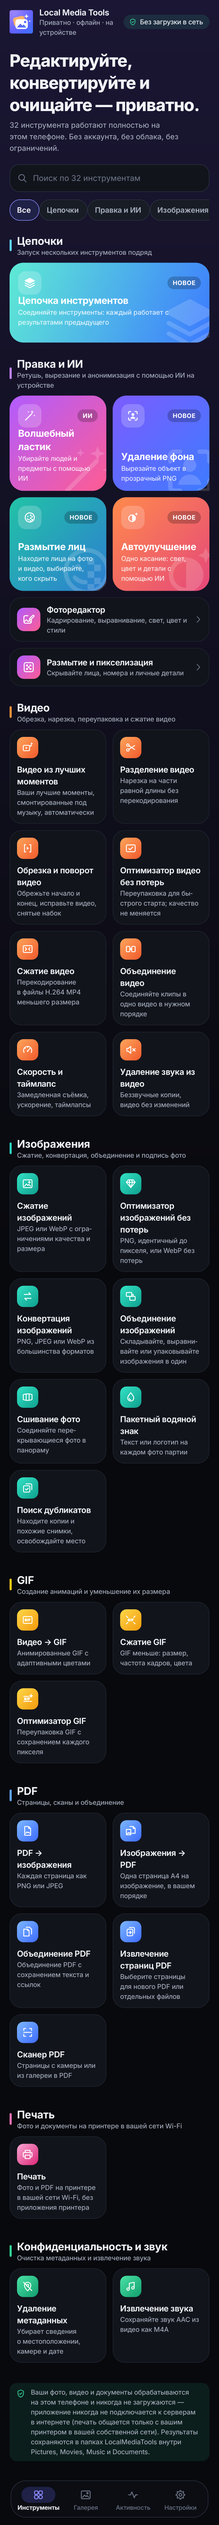
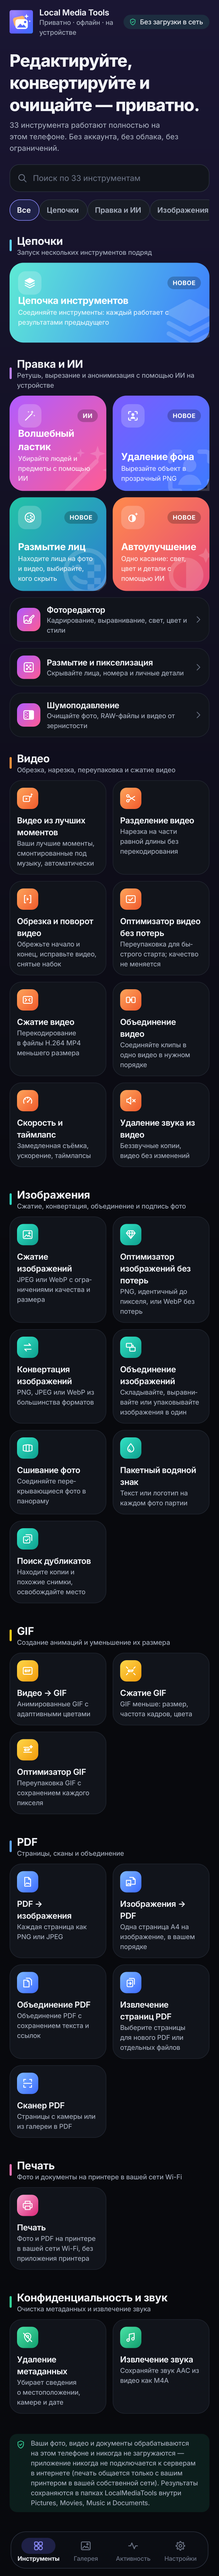
Release 1.10.0: Denoiser that keeps RAW files RAW, your own song, people and things in videos
- Denoiser (Edit & AI): photos, camera RAW files and videos, each file's own
  noise measured; photos keep their format, RAW files (CR2, DNG, NEF, ARW)
  are written back as themselves with everything else byte for byte, videos
  are cleaned on the GPU. Settings measured on real noise (SIDD, raw.pixls.us);
  a fine-detail safeguard keeps clean, detailed photos untouched
  (buildtools/denoise/README.md)
- RAW files keep their format: tools that would change it leave them out and
  say why; stacks pass them through; DNG recognised by content, CR3 no longer
  taken for a video
- Highlight video: your own song, its beat found and followed (80 % agreement
  with librosa/Essentia on 200 held-out FMA songs; buildtools/highlight)
- Gallery: videos looked at in a frame every 3 s (people found 43 % -> 86 % on
  18 real videos); undecodable videos retried; existing videos rescanned
  once with what was said about their faces kept
- All new texts in the ten languages; 142 JVM and 73 Robolectric tests pass

Claude-Session: https://claude.ai/code/session_01QWYGSgXqX2miYZz9W37Det

diff --git a/buildtools/build_apk.py b/buildtools/build_apk.py
@@ -33,8 +33,8 @@ SHARED_TEST_SRC = os.path.join(APP, "src", "sharedTest", "kotlin")
 ANDROID_JAR = os.path.join(TC, "android", "android.jar")
 AAPT2 = os.path.join(TC, "android", "aapt2")
 
-VERSION_CODE = 13
-VERSION_NAME = "1.9.1"
+VERSION_CODE = 14
+VERSION_NAME = "1.10.0"
 MIN_SDK = 29
 TARGET_SDK = 35
 ABIS = ["arm64-v8a", "armeabi-v7a"]

diff --git a/README.md b/README.md
@@ -15,7 +15,7 @@ after it has been completely written and checked.
 **Tool stacks** chain any of them: pick files once, add steps (for example Blur faces → Video
 compressor → Video → GIF → GIF optimizer) and run them all with one tap.
 
-**Install:** [`release/LocalMediaTools-1.9.1.apk`](release/LocalMediaTools-1.9.1.apk)
+**Install:** [`release/LocalMediaTools-1.10.0.apk`](release/LocalMediaTools-1.10.0.apk)
 (Android 10 or newer, arm64 / armv7; allow "install unknown apps" for your file manager or browser).
 It installs over earlier versions (same signing key).
 
@@ -39,9 +39,11 @@ in [`CREDITS.tsv`](app/src/test/resources/people/CREDITS.tsv)), as the app found
 |---|---|---|
 | ![](docs/screenshots/tool-stack.png) | ![](docs/screenshots/stack-step.png) | ![](docs/screenshots/stack-picker.png) |
 
-| Home | Blur faces | Background remover | Auto enhance | Speed & timelapse |
-|---|---|---|---|---|
-| ![](docs/screenshots/home.png) | ![](docs/screenshots/face-blur.png) | ![](docs/screenshots/background-remover.png) | ![](docs/screenshots/auto-enhance.png) | ![](docs/screenshots/speed.png) |
+| Home | Denoiser | Blur faces | Background remover | Auto enhance | Speed & timelapse |
+|---|---|---|---|---|---|
+| ![](docs/screenshots/home.png) | ![](docs/screenshots/denoiser.png) | ![](docs/screenshots/face-blur.png) | ![](docs/screenshots/background-remover.png) | ![](docs/screenshots/auto-enhance.png) | ![](docs/screenshots/speed.png) |
+
+The Denoiser's preview shows a real noisy phone photo from SIDD (MIT licence; [`CREDITS.tsv`](app/src/test/resources/denoise/CREDITS.tsv)) and what the app's photo denoiser made of it.
 
 | Português (Brasil) | 简体中文 | 日本語 | Русский |
 |---|---|---|---|
@@ -51,7 +53,66 @@ in [`CREDITS.tsv`](app/src/test/resources/people/CREDITS.tsv)), as the app found
 |---|---|---|---|
 | ![](docs/screenshots/editor-erase.png) | ![](docs/screenshots/editor-looks.png) | ![](docs/screenshots/editor-crop.png) | ![](docs/screenshots/settings.png) |
 
-## What's new in 1.9.1: duplicate finder fixes
+## What's new in 1.10.0: a denoiser that keeps RAW files RAW, your own song, people and things in videos
+
+- **New tool: Denoiser** (Edit & AI). It cleans the grain from photos, camera RAW files and videos,
+  a whole batch at a time.
+  - **Strength from the file itself:** each file's own noise is measured and only that much is
+    removed. Light, Normal and Strong adjust it.
+  - **Preview:** a piece of the first photo is shown before and after, at 100 %.
+  - **Photos** keep their format (JPEG stays JPEG, PNG PNG, WebP WebP). HEIC and others Android
+    can't write become JPEG.
+  - **Videos** are cleaned on the phone's graphics chip, frame by frame together with the frames
+    before them, and saved as MP4 at their original quality.
+  - **Measured, not guessed:** on real phone noise (SIDD) the photo setting takes scenes it was
+    not tuned on from 27.7 to 33.8 dB. RAW files at real high-ISO noise levels go from 42.1 to
+    49.5 dB, videos from 28.3 to 34.3 dB. Details in `buildtools/denoise/README.md`.
+- **Detailed photos are left alone.** Measuring showed that a photo full of fine detail (grass,
+  branches, bark) can look like a noisy one to a noise meter. A straightforward denoiser would have
+  smeared those photos. The Denoiser recognises fine detail by how unevenly it is spread and holds
+  back. On clean photos full of detail the change stays invisible (33 dB or more), while noisy photos
+  are still cleaned.
+- **RAW files stay RAW** — in the Denoiser, a `.cr2` comes out as a `.cr2`:
+  - **Kept as they were:** previews, maker notes and all metadata are kept byte for byte, and only the
+    sensor data is cleaned and written back in the camera's own compression. That covers Canon CR2,
+    DNG (phones and cameras), Nikon NEF and Sony ARW, checked against LibRaw and ExifTool on 18
+    cameras' files.
+  - **Left out, with a reason:** RAW variants the app can't write back exactly (CR3, RAF, ORF, RW2,
+    Canon sRAW, lossy NEF) are left untouched, and the message says why.
+  - **Other tools:** tools that would turn a RAW photo into another format (auto enhance, watermark,
+    blur…) now leave RAW files out and say so. In a tool stack, the RAW file passes those steps
+    unchanged. Only the format tools change a RAW file's format: Convert images and the Image
+    compressor. Tools that make something new from photos (PDF, merges, prints, highlight videos)
+    still take them.
+  - **Recognised by content:** a DNG is now recognised as RAW even when its name doesn't end in
+    `.dng`, and Canon CR3 files no longer pass for videos.
+- **Your own song in the highlight video.**
+  - **Choosing it:** under Music, pick "My song" and choose any audio file on the phone.
+  - **Fitting:** the app finds the song's beat, so the cuts fall on it. It starts on the first beat
+    after any silence, repeats a short song on whole bars without repeating its ending, and plays it
+    at the level of the app's own music, quieter while your clips speak.
+  - **Accuracy:** on 200 real songs from the Free Music Archive not used to tune it, it found the same
+    tempo as two independent references (librosa and Essentia) in 80 % of the songs where those
+    agree, and double or half in 10 %. Songs without a steady beat keep the video's own rhythm.
+    "Listen" plays your song as the video will.
+- **The Gallery finds people and things in videos far better.**
+  - **More frames:** a video used to be looked at in only three frames, which on many videos were all
+    the same keyframe. Now its frames are spread over the whole video, one every 3 seconds (3 to 16),
+    each a different picture.
+  - **Measured on real videos of people** (Global Lives Project, CC BY): the people seen clearly in each video are now found in 86 % of the cases (24 of 28; before: 43 %), and things such as dogs, cars or beaches in 82 % (before: 74 %), with hardly any wrong tags.
+  - **Retried, not emptied:** a video that can't be decoded is tried again later instead of being
+    recorded as empty.
+  - **What you said stays:** existing videos are looked at again once after updating, and what you
+    said about the faces in them (names, "not this person", hidden faces) is kept.
+- **Translated**: every new text is in all ten languages, including the RAW messages and the
+  Denoiser's results.
+- **Not tried on a phone** (there is none here): the video denoiser on the graphics chip, decoding
+  your song, and the Gallery reading video frames. The arithmetic of all three is the same code the
+  measurements and tests above ran; what only a phone does (its video decoders and graphics chip) is
+  untested. On a phone the Denoiser takes from several seconds to a minute per photo, depending on its
+  size; RAW files and videos take longer.
+
+## What was new in 1.9.1: duplicate finder fixes
 
 - **Copies of turned photos are found again.** The finder compared each photo's shape using the size
   and orientation the phone's photo library reports, which some phones get the wrong way round for
@@ -513,7 +574,7 @@ so updates install over each other; use your own key for a store release.
 
 ## Tests
 
-* `app/src/test` — 123 JVM tests: codecs, orientation, layouts, MP4 fast start, stitching, editor
+* `app/src/test` — 142 JVM tests: codecs, orientation, layouts, MP4 fast start, stitching, editor
   geometry and colour pipeline, masks and mosaics, the metadata stripper (JPEG/PNG/WebP/GIF), the
   real vision models (face detection and recognition, tracking and grouping people across photos
   and videos, cut-out masks, auto enhance, duplicate grouping), the sound pipeline (resampling,
@@ -544,8 +605,16 @@ so updates install over each other; use your own key for a store release.
   1.9: every language's catalog against the code (every text translated, placeholders and plural forms
   intact, date patterns valid and complete, search words that don't clash), each language's plural
   rules and number and date formats, search in Portuguese, Chinese, Japanese and Korean, shortening
-  names by whole characters (emoji included), and auto enhance's model on real portraits.
-* `app/src/roboTest` — 66 Robolectric tests (Android 15 runtime, native graphics): EXIF orientation
+  names by whole characters (emoji included), and auto enhance's model on real portraits. New in
+  1.10: the RAW reader and writer on pieces of real camera files (a Pixel 4a DNG with the phone's own
+  compressed tiles, a Samsung DNG): sensor data identical to LibRaw's, unchanged data giving the
+  same file, changed data coming back exactly, lossless JPEG on the camera's own data and on extreme
+  values, and 480 damaged copies failing cleanly; the denoisers: known noise found, fine detail not
+  taken for noise, strips giving the whole picture's result, a real RAW file's noise removed without
+  moving its levels or its clipped highlights, video averaging still parts and leaving no trail
+  behind moving ones; the song code on music of known tempo (beat, start on a beat, silence skipped,
+  repeating on whole bars, level, no beat in a held chord); and the Gallery's choice of video frames.
+* `app/src/roboTest` — 73 Robolectric tests (Android 15 runtime, native graphics): EXIF orientation
   through decoding and export; every image, GIF and PDF tool end to end; the editor at full
   resolution (rotation, flip, crop, straighten, colours equal to the preview pipeline, eraser and
   privacy brushes); the editor UI (brush stroke → erase → undo/redo → rotate → save); metadata
@@ -567,8 +636,13 @@ so updates install over each other; use your own key for a store release.
   model writes); a pass that opens every tool from the home screen; and, new in 1.9, the home screen,
   every tool's screen and every tab opened, laid out and drawn in each of the nine other languages,
   with no English titles and no unfilled placeholders; new in 1.9.1, the duplicate finder's real scan
-  end to end on real photos (see above), and a scan that can read no photo saying so. `LMT_SHOTS=<dir>` also renders the screenshots
-  above.
+  end to end on real photos (see above), and a scan that can read no photo saying so; new in 1.10,
+  RAW files recognised by their contents, kept out of tools that would change their format (and
+  passing through tool stacks unchanged), RAW files the Denoiser can't write back or that are
+  damaged reported with the reason, picking your own song for the highlight video (its beat shown
+  and used, kept while trying the app's tunes, a cancelled pick changing nothing), and the Gallery
+  looking at only the videos again after updating, with what was said about their faces kept.
+  `LMT_SHOTS=<dir>` also renders the screenshots above.
 
 Not covered by automated tests (no emulator here): a real printer (see above for what printing is
 tested against), MediaCodec/MediaExtractor video paths (including the GPU face blur, the GPU video
